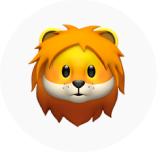
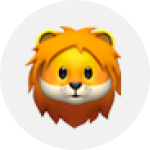
feat: 마이페이지 ui 구현 완료

Changed region(s): [[0.16, 0.1333, 0.8267, 0.88], [0.2667, 0.2667, 0.64, 0.4533], [0.2933, 0.4533, 0.32, 0.48]]

diff --git a/src/pages/MyPage/Profile.js b/src/pages/MyPage/Profile.js
@@ -1,38 +1,56 @@
 import React from "react";
 import profileImg from "../../assets/image/profile.png";
-import musicImg from "../../assets/image/music.png";
+import profileEdit from "../../assets/image/imgedit.png";
+import profilemusic from "../../assets/image/search.png";
 
 const Profile = () => {
+
   return (
     <div className="profile-container">
         <div className="profile-section">
-            <div className="profile-element">
+            <div className="profile-image">
                 <img 
                     src={profileImg} 
                     alt="프로필 이미지" 
-                    className="profile-image" 
+                    className="profile-img" 
                 />
-                <div className="profile-info">
-                    <div className="profile-name">
-                        LikeLion
-                        <span className="profile-id">#1253</span>
-                    </div>
-                    <div className="profile-details">
-                        <div className="profile-write">안녕하세요</div>
-                        <div className="profile-music">
-                            <img 
-                                src={musicImg} 
-                                alt="음악 아이콘" 
-                                className="music-icon" 
-                            />
-                            노래
-                        </div>
+                <img
+                    src={profileEdit}
+                    alt="프로필 수정 아이콘"
+                    className="profile-img-edit"
+                />
+            </div>
+            <div className="profile-name">
+                    Likelion#1253
+            </div>
+            <button className="profile-edit">프로필 저장</button>
+        </div>
+        <div className="profile-info">
+            <div className="profile-details">
+                <div className="profile-title">
+                    한 줄 소개
+                </div>
+                <div className="profile-content-box">
+                    <div className="profile-content">
+                        안녕하세요
                     </div>
                 </div>
             </div>
-        </div>
-        <div className="profile-section">
-            <button className="profile-edit">프로필 편집</button>
+            <div className="profile-details">
+                <div className="profile-title">
+                    좋아하는 노래
+                </div>
+                <div className="profile-content-box">
+                    <div className="profile-content">
+                        🎵 내꺼하자 - 인피니트
+                    </div>
+                    <img
+                        src={profilemusic}
+                        alt="프로필 노래 수정 아이콘"
+                        className="profile-search-icon"
+                    />
+                </div>
+            </div>
         </div>
     </div>
   );

diff --git a/src/styles/MyPage.css b/src/styles/MyPage.css
@@ -1,17 +1,149 @@
+@font-face {
+  font-family: 'Paperlogy';
+  src: url(../../public/font/Paperlogy-5Medium.ttf) format('truetype');
+}
+
 .page-container {
   height: 100%;
   display: flex;
   flex-direction: column;
   justify-content: center;
   align-items: center;
-  margin: 50px 80px;
+  margin: 190px 170px;
   font-family: 'Paperlogy', sans-serif;
 }
 
 .profile-container {
   width: 100%;
   display: flex;
+  flex-direction: column;
+  align-items: flex-start;
+}
+
+.profile-section {
+  display: flex;
+  align-items: flex-start;
+  width: 100%;
+}
+
+.profile-image {
+  width: 150px;
+  height: 150px;
+  position: relative;
+  flex: 0 0 150px;
+  margin-right: 35px;
+}
+
+.profile-img{
+  border-radius: 50%;
+  object-fit: cover;
+}
+
+.profile-img-edit {
+  position: absolute;
+  bottom: 0;
+  right: 0;
+  cursor: pointer;
+}
+
+.profile-name {
+  font-size: 28px;
+  font-weight: bold;
+  color: #333333;
+  margin-top: 30px;
+}
+
+.profile-edit {
+  padding: 15px 70px;
+  font-size: 18px;
+  background-color: #0A84FF;
+  border: none;
+  border-radius: 15px;
+  cursor: pointer;
+  font-family: "Paperlogy", sans-serif;
+  font-weight: 500;
+  color: #fff;
+  margin-left: auto;
+  margin-top: auto;
+}
+
+.profile-info {
+  margin: 70px 0px;
+  display: flex;
+  flex-direction: column;
+  gap: 20px;
+}
+
+.profile-details {
+  display: flex;
+  flex-direction: column;
+  gap: 15px;
+}
+
+.profile-title {
+  font-size: 20px;
+  font-weight: 500;
+  color: #333333;
+}
+
+.profile-content-box {
+  padding: 20px 20px;
+  border-radius: 10px;
+  border: 1px solid #5c5c5c;
+  width: 450px;
+  display: flex;
   justify-content: space-between;
-  margin-top: 20px;
-  padding: 50px 0px;
+  align-items: center;
+}
+
+.profile-content{
+  font-size: 16px;
+  color: #8f8f8f;
+}
+
+.profile-search-icon {
+  width: 18px;
+  height: 18px;
+  cursor: pointer;
+}
+
+.state-card {
+  width: 250px;
+  height: 150px;
+  background-color: #f1f1f1;
+  border-radius: 25px;
+  display: flex;
+  flex-direction: column;
+  justify-content: center;
+  padding: 0px 45px;
+}
+
+.state-header {
+  font-size: 18px;
+  margin-bottom: 10px;
+  display: flex;
+  align-items: center;
+}
+
+.state-icon {
+  font-size: 30px;
+  margin-right: 20px;
+}
+
+.state-content {
+  font-size: 24px;
+  font-weight: bold;
+  margin-left: 60px;
+}
+
+.state-unit {
+  font-size: 16px;
+  margin-left: 10px;
+  font-weight: normal;
+}
+
+.status-container {
+  display: flex;
+  justify-content: center;
+  gap: 25px;
 }

diff --git a/src/pages/MyPage/Status.js b/src/pages/MyPage/Status.js
@@ -1,0 +1,23 @@
+import React from "react";
+import StatCard from "./StatCard";
+
+const Status = () => {
+  const stats=[
+    { icon: "🔥", title: "연속 달성일", statistics: {value: 0, unit: "일"} },
+    { icon: "🎯", title: "최근 30일 달성률", statistics: {value: 0, unit: "%"} },
+    { icon: "⭐", title: "가장 많이 완료한 요일", statistics: {value: "토요일", unit: ""}}
+  ];
+
+  return (
+    <div className="status-container">
+      {stats.map((stats, idx) => (
+        <StatCard 
+          key={idx} 
+          stats={stats}
+        />
+      ))}
+    </div>
+  );
+};
+
+export default Status;

diff --git a/src/pages/MyPage/StatCard.js b/src/pages/MyPage/StatCard.js
@@ -1,0 +1,19 @@
+import React from "react";
+import "../../styles/MyPage.css";
+
+const StatCard = ({ stats }) => {
+  return (
+    <div className="state-card">
+        <div className="state-header">
+            <span className="state-icon">{stats.icon}</span>
+            <span className="state-title">{stats.title}</span>
+        </div>
+        <div className="state-content">
+            {stats.statistics.value} 
+            <span className="state-unit">{stats.statistics.unit}</span>
+        </div>
+    </div>
+  );
+};
+
+export default StatCard;

diff --git a/src/App.js b/src/App.js
@@ -1,5 +1,5 @@
 import { BrowserRouter, Routes, Route } from 'react-router-dom';
-import MainPage from './pages/MainPage';
+import MainPage from './pages/MainPage/MainPage';
 import LoginPage from './pages/LoginPage';
 import FriendPage from './pages/FriendPage';
 import MyPage from './pages/MyPage/MyPage';

diff --git a/src/App.css b/src/App.css
@@ -36,3 +36,12 @@
     transform: rotate(360deg);
   }
 }
+
+@font-face {
+  font-family: 'Paperlogy';
+  src: url(../../public/font/Paperlogy-4Regular.ttf) format('truetype');
+}
+
+body {
+  font-family: 'Paperlogy', sans-serif;
+}

diff --git a/src/pages/MyPage/MyPage.js b/src/pages/MyPage/MyPage.js
@@ -1,5 +1,5 @@
 import React from "react";
-import Statistics from "./Statistics";
+import Statistics from "./Status";
 import Profile from "./Profile";
 import "../../styles/MyPage.css";
 
